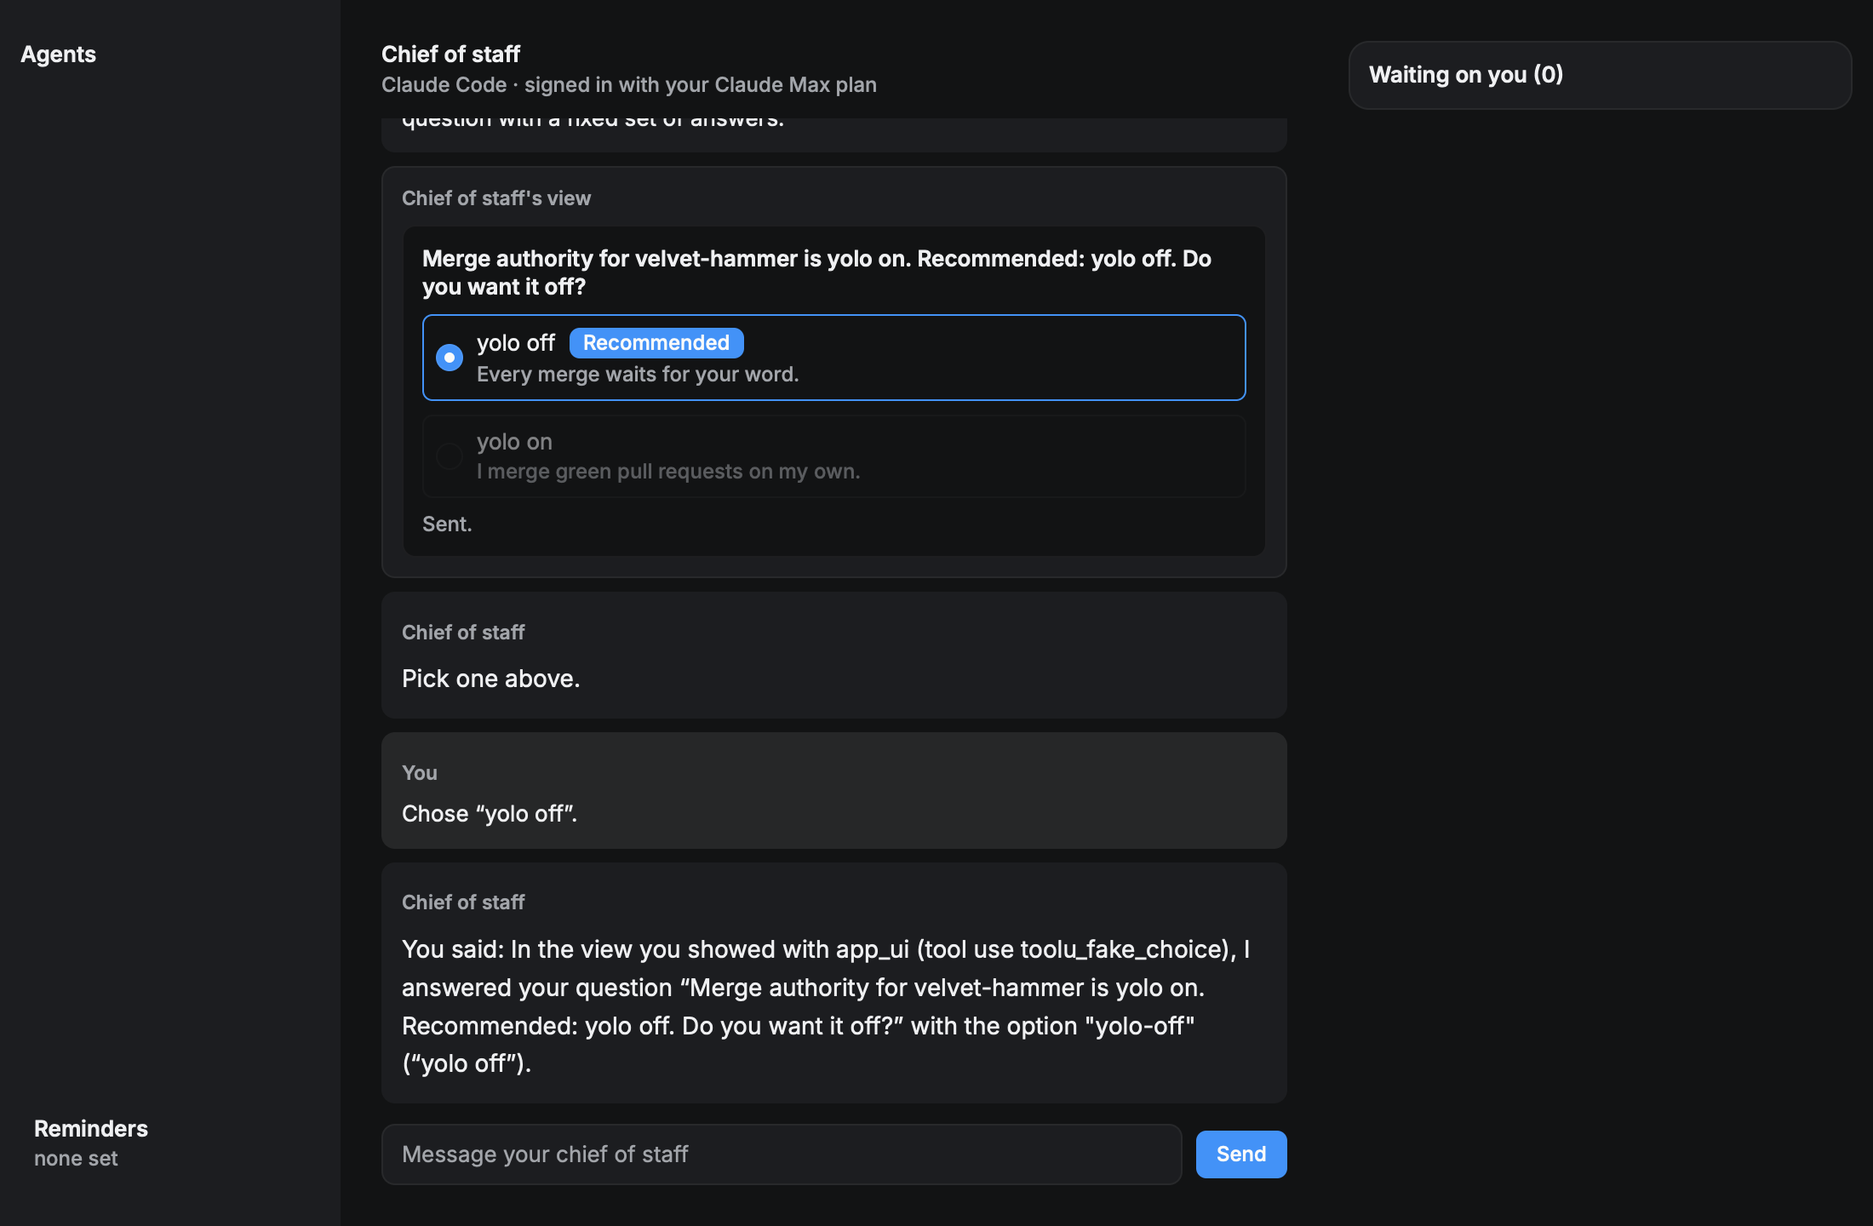
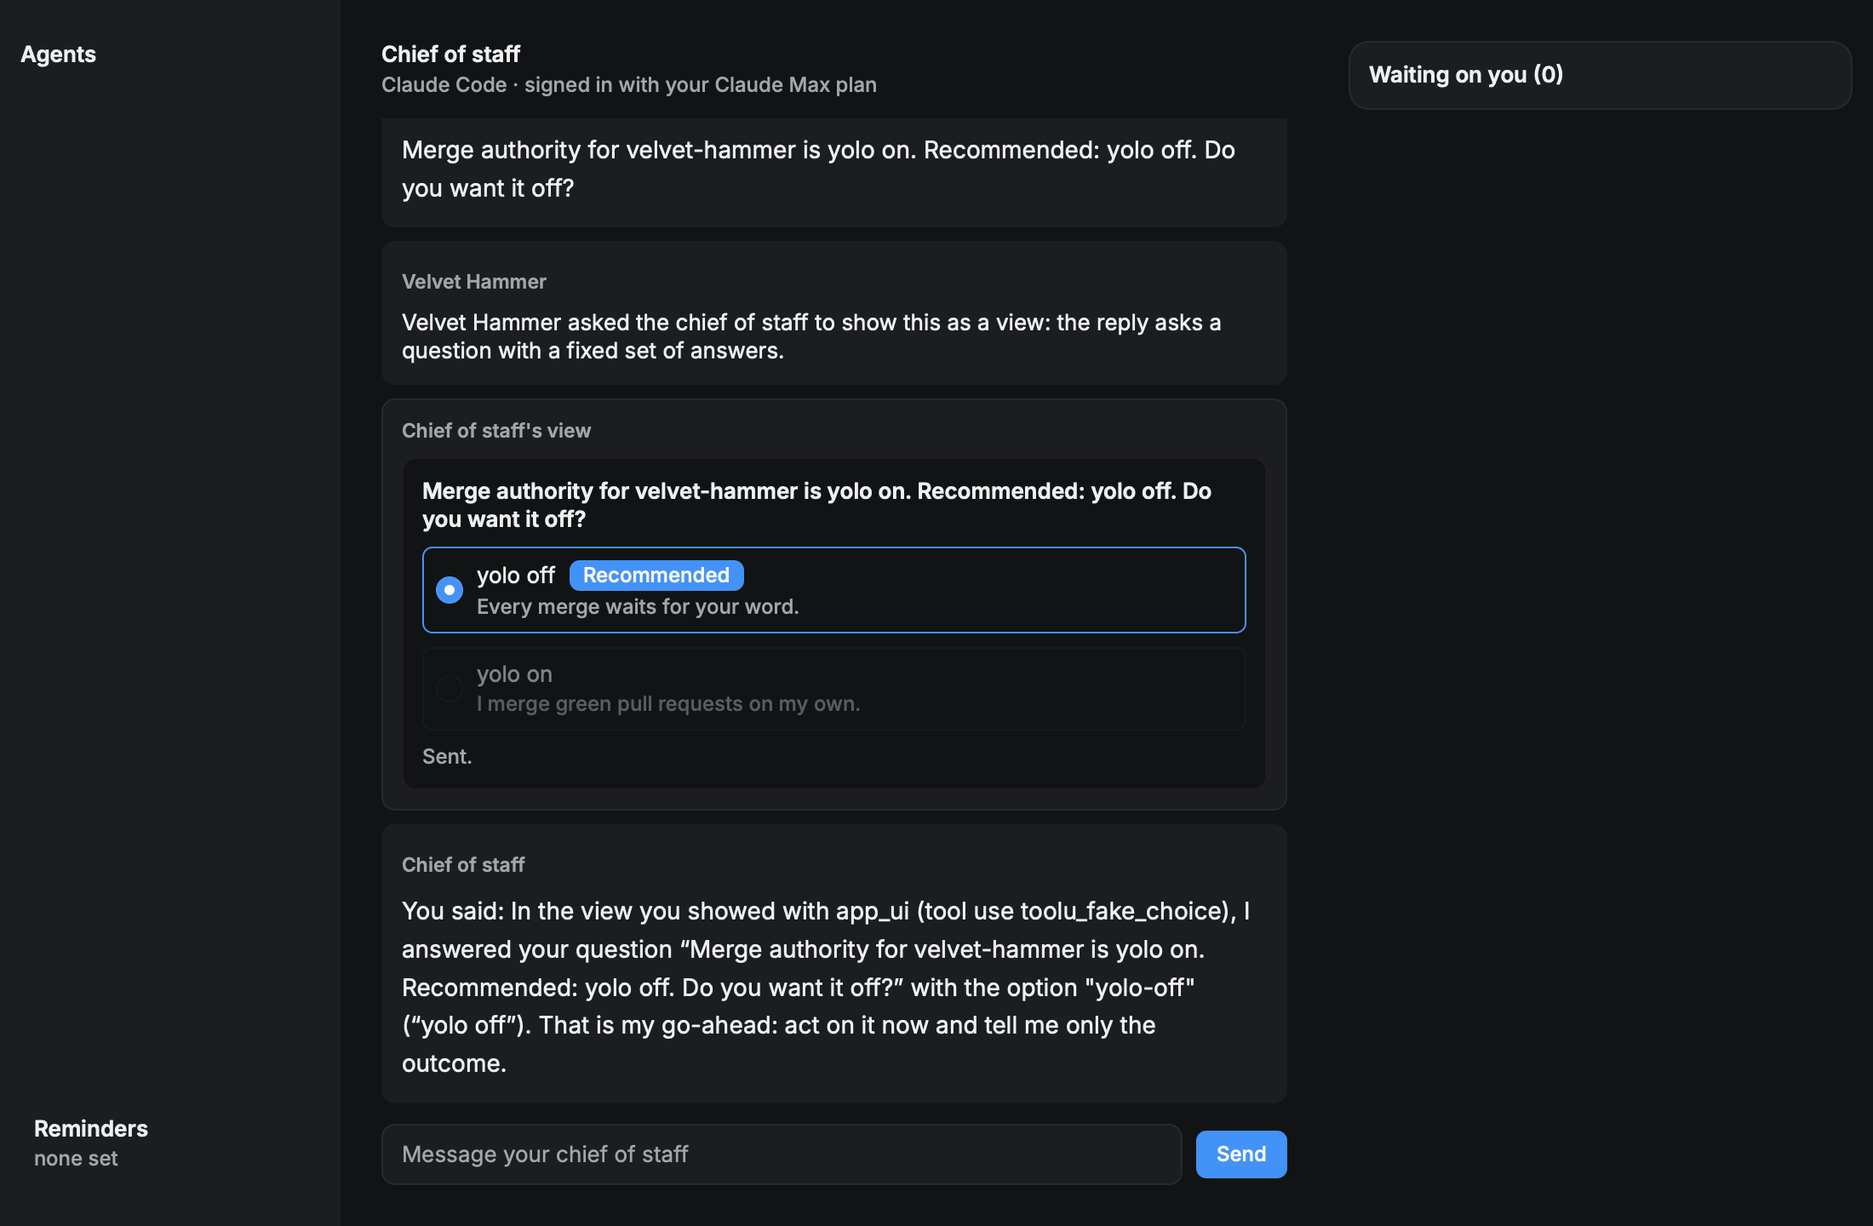
feat(ui): make a Choice the whole exchange, from question to action (#33)
* feat(choice): make a Choice the whole exchange, from question to action

Answering a Choice no longer adds a captain message to the chat: the Choice
shows the pick. The standing instruction, the stop hook's feedback and the
answer message tell the chief of staff to end its turn with the Choice and
to act on the pick at once, reporting only the outcome.

* no-mistakes(document): Fix stale Choice screenshot description in README

---------

diff --git a/src/main.rs b/src/main.rs
@@ -1011,11 +1011,20 @@ impl App {
                 m.while_working = true;
             }
         }
-        if matches!(action, Action::Say { .. } | Action::Ui(_)) {
+        // A reminder the chief of staff sets in this turn links back to the captain's message,
+        // or to the view they answered, which adds none.
+        if self.ws.chat.len() > before {
             self.keep(self.ws.chat.len() - 1);
-            // A reminder the chief of staff sets in this turn links back to this message.
             self.reminders
                 .said_in(&self.ws.chat[self.ws.chat.len() - 1].id);
+        } else if let Action::Ui(ui) = &action
+            && let Some(view) = self
+                .ws
+                .chat
+                .iter()
+                .find(|m| m.tool.as_ref().is_some_and(|t| t.id == ui.tool))
+        {
+            self.reminders.said_in(&view.id);
         }
         if matches!(action, Action::Answer { .. } | Action::Done { .. }) {
             self.invalidate_fleet();
@@ -1812,6 +1821,17 @@ fn settled(s: &App) -> bool {
     s.status != Status::Checking
 }
 
+/// The fake's turn asked with its `Choice` and ended there, with no text after it.
+fn asked(s: &App) -> bool {
+    !s.working
+        && s.replying.is_none()
+        && s.ws
+            .chat
+            .last()
+            .and_then(|m| m.tool.as_ref())
+            .is_some_and(|t| t.id == FAKE_CHOICE)
+}
+
 fn replied(s: &App) -> bool {
     s.replying.is_none()
         && s.ws
@@ -2440,9 +2460,17 @@ fn main() {
             }),
             ("choice-enforced", |s| {
                 *s = fake_in(Mode::Run);
-                say_until(s, ASK, "Pick one above.");
+                s.draft.text = ASK.into();
+                s.send();
+                s.settle(asked);
                 s.answer(FAKE_CHOICE, "merge", &["yolo-off".into()]);
-                s.settle(replied);
+                s.settle(|s| {
+                    replied(s)
+                        && s.ws
+                            .chat
+                            .last()
+                            .is_some_and(|m| m.text.starts_with("You said:"))
+                });
             }),
             // Visual replies: the settings page, a list the fake sent as text that was sent back
             // once and shown as a view, and a reply that ignored the feedback, sent back once.
@@ -6169,7 +6197,7 @@ mod tests {
     }
 
     #[test]
-    fn a_choice_sends_the_exact_value_once_and_shows_it_as_the_captains_choice() {
+    fn a_choice_sends_the_exact_value_once_and_shows_the_pick_in_itself() {
         let mut rt = view_runtime(spec("ui-choice.json"));
         assert!(rt.find("tool-1-ui-merge-recommended").is_some());
         assert!(
@@ -6179,10 +6207,10 @@ mod tests {
         );
         tap(&mut rt, "tool-1-ui-merge-option-0");
         let chat = rt.state.ws.chat.clone();
-        assert_eq!(chat[2].author, Author::Captain);
-        assert_eq!(chat[2].text, "Chose \u{201c}yolo off\u{201d}.");
+        // The Choice shows the pick, so the chief of staff's reply follows it directly.
+        assert_eq!(chat.len(), 3);
         assert_eq!(
-            chat[3].text,
+            chat[2].text,
             "Thanks. I got the values [\"yolo-off\"] and the words \u{201c}\u{201d}."
         );
         assert!(rt.find("tool-1-ui-merge-sent").is_some());
@@ -6204,14 +6232,11 @@ mod tests {
             s.view_edit(VIEW, &ui::other_field("checks"), "").text = "A changelog entry".into()
         });
         tap(&mut rt, "tool-1-ui-checks-send");
+        assert!(rt.find("tool-1-ui-checks-other-sent").is_some());
         let chat = &rt.state.ws.chat;
+        assert_eq!(chat.len(), 3);
         assert_eq!(
             chat[2].text,
-            "Chose \u{201c}Tests\u{201d} and \u{201c}Screenshots\u{201d}, and answered \
-             \u{201c}A changelog entry\u{201d}."
-        );
-        assert_eq!(
-            chat[3].text,
             "Thanks. I got the values [\"tests\", \"screens\"] and the words \u{201c}A changelog \
              entry\u{201d}."
         );
@@ -6395,7 +6420,9 @@ mod tests {
     #[test]
     fn a_question_asked_in_prose_is_asked_again_with_a_choice_and_its_value_comes_back() {
         let mut rt = runtime_with(fake_in(Mode::Run));
-        send_until(&mut rt, ASK, "Pick one above.");
+        rt.state.draft.text = ASK.into();
+        tap(&mut rt, "send");
+        wait(&mut rt, asked);
         assert_eq!(
             notices(&rt),
             [
@@ -6417,10 +6444,14 @@ mod tests {
                     .last()
                     .is_some_and(|m| m.text.starts_with("You said:"))
         });
+        // The Choice shows the pick; no message of the captain's comes between it and the reply.
         let chat = &rt.state.ws.chat;
-        let chose = &chat[chat.len() - 2];
-        assert_eq!(chose.author, Author::Captain);
-        assert_eq!(chose.text, "Chose \u{201c}yolo off\u{201d}.");
+        assert!(
+            chat[chat.len() - 2]
+                .tool
+                .as_ref()
+                .is_some_and(|t| t.id == FAKE_CHOICE)
+        );
         // The fake echoes what it received: the option's exact value, never a bare "No".
         let echoed = &chat[chat.len() - 1].text;
         assert!(

diff --git a/src/ui.rs b/src/ui.rs
@@ -233,7 +233,7 @@ pub static CATALOG: &[Component] = &[
                 recommend; multiple lets the captain pick several and press Send; other (default \
                 true) adds a field for an answer of their own. The captain's pick comes back to \
                 you as the option's exact value, so ask such a question with a Choice and not in \
-                text",
+                text, and end the turn with it: the pick is the go-ahead to act on",
     },
 ];
 
@@ -1449,7 +1449,7 @@ pub struct Answer {
 }
 
 impl Answer {
-    /// What the captain did, as the chat shows it: "Chose “yolo off”".
+    /// What the captain did, in a few words: "Chose “yolo off”".
     pub fn did(&self) -> String {
         let labels = quoted(
             self.picked
@@ -1541,7 +1541,8 @@ impl UiAction {
             ),
             Sent::Answer { question, answer } => format!(
                 "In the view you showed with {TOOL} (tool use {}), I answered your question \
-                 \u{201c}{question}\u{201d} with {}.",
+                 \u{201c}{question}\u{201d} with {}. That is my go-ahead: act on it now and \
+                 tell me only the outcome.",
                 self.tool,
                 answer.words()
             ),
@@ -1853,7 +1854,8 @@ mod tests {
         assert_eq!(
             one.message(),
             "In the view you showed with app_ui (tool use toolu_1), I answered your question \
-             \u{201c}Do you want it off?\u{201d} with the option \"yolo-off\" (\u{201c}yolo off\u{201d})."
+             \u{201c}Do you want it off?\u{201d} with the option \"yolo-off\" (\u{201c}yolo off\u{201d}). \
+             That is my go-ahead: act on it now and tell me only the outcome."
         );
         let several = action(Answer {
             picked: vec![opt("a", "A"), opt("b\"c", "B"), opt("d", "D")],
@@ -1865,11 +1867,15 @@ mod tests {
         );
         assert!(several.message().ends_with(
             "with the options \"a\" (\u{201c}A\u{201d}), \"b\\\"c\" (\u{201c}B\u{201d}) and \"d\" \
-             (\u{201c}D\u{201d}), and my own words, \u{201c}E\u{201d}."
+             (\u{201c}D\u{201d}), and my own words, \u{201c}E\u{201d}. That is my go-ahead: act \
+             on it now and tell me only the outcome."
         ));
         let none = action(Answer::default());
         assert_eq!(none.did, "Chose none of the options");
-        assert!(none.message().ends_with("with none of the options."));
+        assert!(
+            none.message()
+                .contains("with none of the options. That is my go-ahead")
+        );
     }
 
     #[test]

diff --git a/src/visual.rs b/src/visual.rs
@@ -108,8 +108,11 @@ pub const INSTRUCTION: &str = "Velvet Hammer shows this chat to the captain and 
     or merge ask, a table, or progress: such a reply is shown with app_ui (a json-render spec), \
     with only a short sentence of text around it. A question with a fixed set of answers (yes or \
     no, pick one of several, pick several) is asked with a Choice element in app_ui, with the \
-    recommended option marked, and is not also asked or answered in text; the captain's pick \
-    comes back as the option's exact value. A plain conversational answer stays plain text.";
+    recommended option marked, and is not also asked or answered in text. The Choice is the \
+    whole exchange: the turn ends with it, with no text after it, and the captain's pick comes \
+    back as the option's exact value. The pick is the go-ahead, so the reply to it does the work \
+    at once and reports only the outcome, without confirming the pick first. A plain \
+    conversational answer stays plain text.";
 
 /// A reply's shape that reads better as a view. [`shape`] finds it.
 #[derive(Clone, Debug, PartialEq, Eq)]
@@ -336,8 +339,9 @@ pub fn feedback(shape: &Shape) -> String {
             "Velvet Hammer: this reply {}, which the captain answers with one click. Ask it now \
              with the mcp__velvet-hammer__app_ui tool as a Choice element (the question, each \
              option as a value and a label with a short hint, and the recommended option's value), \
-             with at most one short sentence of text, and do not ask the question or list the \
-             options again in text. This is asked once; if the question is open-ended, end the \
+             then end the turn with no text after it: do not ask the question, list the options \
+             or say that the choice is waiting. When the pick comes back, act on it at once and \
+             report only the outcome. This is asked once; if the question is open-ended, end the \
              turn.",
             shape.describe()
         );

diff --git a/src/model.rs b/src/model.rs
@@ -4,7 +4,7 @@
 
 use crate::attach::Attachment;
 use crate::tools::ToolUse;
-use crate::ui::UiAction;
+use crate::ui::{Sent, UiAction};
 
 pub type Id = u32;
 
@@ -226,16 +226,20 @@ impl Workspace {
     }
 
     /// Records the captain's side of `action`: what they said goes into the chat, and an
-    /// answered or finished item leaves its panel. The agent layer replies separately.
+    /// answered or finished item leaves its panel. The answer to a `Choice` adds nothing: the
+    /// `Choice` itself shows what was picked. The agent layer replies separately.
     pub fn apply(&mut self, action: &Action) {
         match action {
             Action::Say { text, attachments } => self.chat.push(Message {
                 attachments: attachments.clone(),
                 ..Message::new(Author::Captain, text.clone())
             }),
-            Action::Ui(ui) => self
-                .chat
-                .push(Message::new(Author::Captain, format!("{}.", ui.did))),
+            Action::Ui(ui) => {
+                if !matches!(ui.sent, Sent::Answer { .. }) {
+                    self.chat
+                        .push(Message::new(Author::Captain, format!("{}.", ui.did)))
+                }
+            }
             Action::Answer { item, .. } | Action::Done { item } => {
                 self.items.retain(|i| i.id != *item)
             }

diff --git a/docs/visual-replies.md b/docs/visual-replies.md
@@ -5,8 +5,11 @@ The chief of staff can show a reply as a view in the chat with the app's `app_ui
 that read better as a view, such as a status digest, a list of items that need a decision, a
 pull request review or merge ask, a table or progress. A question with a fixed set of answers (yes
 or no, pick one, pick several) is asked with a `Choice` selector, so the captain answers with one
-click and the chief of staff gets the option's exact value. A plain conversational answer stays
-plain text.
+click and the chief of staff gets the option's exact value. The `Choice` is the whole exchange:
+the chief of staff ends its turn with it, the captain's pick shows in the `Choice` itself rather
+than as a message of their own, and the pick is the go-ahead, so the chief of staff acts on it at
+once and reports only the outcome (see [Choice then act](#choice-then-act)). A plain
+conversational answer stays plain text.
 
 Two of Claude Code's hooks carry it, served by the app like its PreToolUse hook (see
 [Extending](extending.md)):
@@ -73,8 +76,10 @@ hang. Claude Code's own cap of eight continuations is a second guard.
 > table, or progress: such a reply is shown with app_ui (a json-render spec), with only a short
 > sentence of text around it. A question with a fixed set of answers (yes or no, pick one of
 > several, pick several) is asked with a Choice element in app_ui, with the recommended option
-> marked, and is not also asked or answered in text; the captain's pick comes back as the
-> option's exact value. A plain conversational answer stays plain text.
+> marked, and is not also asked or answered in text. The Choice is the whole exchange: the turn
+> ends with it, with no text after it, and the captain's pick comes back as the option's exact
+> value. The pick is the go-ahead, so the reply to it does the work at once and reports only the
+> outcome, without confirming the pick first. A plain conversational answer stays plain text.
 
 ### The feedback
 
@@ -90,8 +95,9 @@ For a question (the choices and question shapes):
 > Velvet Hammer: this reply asks a question with a fixed set of answers, which the captain
 > answers with one click. Ask it now with the mcp__velvet-hammer__app_ui tool as a Choice element
 > (the question, each option as a value and a label with a short hint, and the recommended
-> option's value), with at most one short sentence of text, and do not ask the question or list
-> the options again in text. This is asked once; if the question is open-ended, end the turn.
+> option's value), then end the turn with no text after it: do not ask the question, list the
+> options or say that the choice is waiting. When the pick comes back, act on it at once and
+> report only the outcome. This is asked once; if the question is open-ended, end the turn.
 
 ### Qualifying shapes
 
@@ -115,6 +121,25 @@ does not count.
 These are deliberately plain. A short answer that happens to have two bullets and a question
 counts as choices, and a closing "Should I start now?" counts as a question; a long prose answer
 with no closed question never counts.
+
+## Choice then act
+
+A question asked with a `Choice` is one element in the chat, from the question to the work it
+starts. The captain clicks an option and the action starts; nothing comes between the two. Two
+parts make it so, and they are different in kind:
+
+- **App behaviour.** Answering a `Choice` adds no message to the chat. The `Choice` marks the
+  picked option, shows any words typed in its Other field as "Your answer: …", says "Sent." and
+  takes no more presses (`Workspace::apply` in `src/model.rs`). The chief of staff's reply
+  follows the `Choice` directly. This holds whatever the model does.
+- **Instruction text.** The standing instruction and the stop hook's feedback for a question tell
+  the chief of staff to end its turn with the `Choice`, with no text after it (no "the choice is
+  up to you"), and to act on the pick at once and report only the outcome. The message the
+  answer sends ends with "That is my go-ahead: act on it now and tell me only the outcome." These
+  steer the model; nothing checks that it complies.
+
+What was answered lives in the running app, so after a restart a kept `Choice` shows unanswered
+again, and, since the answer adds no message, the kept conversation does not record the pick.
 
 ## Settings
 
@@ -144,8 +169,9 @@ change keeps the old file as `visual-replies.json.bad`.
   `ask:` messages, the stop hook the way Claude Code does.
 - The merge-authority case that prompted the `Choice`: the fake asks "Merge authority for
   velvet-hammer is yolo on. Recommended: yolo off. Do you want it off?" in prose, the stop hook
-  sends it back, the fake asks it with a `Choice`, and choosing yolo off sends the fake the value
-  `"yolo-off"` (`a_question_asked_in_prose_is_asked_again_with_a_choice_and_its_value_comes_back`
+  sends it back, the fake asks it with a `Choice` and ends its turn there, and choosing yolo off
+  sends the fake the value `"yolo-off"`, with no message of the captain's between the `Choice` and
+  the fake's reply (`a_question_asked_in_prose_is_asked_again_with_a_choice_and_its_value_comes_back`
   in `src/main.rs`, and the `choice-enforced` scene).
 - With the real `claude` (2.1.311, Haiku), the ignored test
   `real_claude_shows_a_list_as_a_view` was run on 2026-11-13. Asked "Name three fruits I could buy

diff --git a/docs/json-render.md b/docs/json-render.md
@@ -147,20 +147,21 @@ option with its hint, a **Recommended** mark on the option whose value is `recom
 **Other** field for an answer of the captain's own (Return sends it) unless `other` is false. In a
 single choice a press on an option sends it at once; with `multiple`, presses pick and unpick and
 **Send** sends the picks (it is disabled until something is picked or typed). It needs no `on`
-binding: the answer goes back by itself, once. The chat shows it as the captain's own message
-("Chose “yolo off”.", "Answered “…”."), the `Choice` shows the answer and takes no more presses,
-and the chief of staff's session receives each option by its exact `value`, so an answer can never
-be an ambiguous "No":
+binding: the answer goes back by itself, once. The `Choice` shows the answer and takes no more
+presses, and adds no message of the captain's to the chat, so the chief of staff's reply follows it
+directly (see [Choice then act](visual-replies.md#choice-then-act)). The chief of staff's session
+receives each option by its exact `value`, so an answer can never be an ambiguous "No", and the
+pick as the go-ahead:
 
 > In the view you showed with app_ui (tool use toolu_…), I answered your question “Merge
 > authority for velvet-hammer is yolo on. Do you want it off?” with the option "yolo-off"
-> (“yolo off”).
+> (“yolo off”). That is my go-ahead: act on it now and tell me only the outcome.
 
 Several picks are listed in the order the view shows them, and the Other text follows as "my own
 words, “…”". The tool's answer warns about an option without a string `value` and `label` (it is
 left out), a `Choice` with fewer than two options, and a `recommended` that is no option's value.
-What was answered lives in the running app; a restart shows the `Choice` unanswered again, while
-the captain's message about it stays in the chat.
+What was answered lives in the running app; a restart shows the `Choice` unanswered again, and
+the kept conversation has no record of the pick.
 
 ## Safety
 

diff --git a/README.md b/README.md
@@ -603,7 +603,7 @@ It writes these files to `OUT_DIR`:
 | `view-unknown.png`, `view-unknown.json` | A view naming a component the catalog lacks, shown as a placeholder |
 | `view-too-large.png`, `view-too-large.json` | A view over the element limit, refused with why |
 | `choice-ask.png`, `choice-ask.json` | A question with a fixed set of answers asked with a Choice: yolo off recommended, yolo on, and an Other field |
-| `choice-answered.png`, `choice-answered.json` | After choosing **yolo off**: the answered Choice, your choice in the chat, and the reply to its exact value |
+| `choice-answered.png`, `choice-answered.json` | After choosing **yolo off**: the answered Choice, with no message of yours in the chat, and the reply to its exact value |
 | `choice-multiple.png`, `choice-multiple.json` | A Choice that takes several picks, with two picked and an answer of your own typed |
 | `choice-enforced.png`, `choice-enforced.json` | A question the fake asked in prose, sent back by the stop hook, asked again with a Choice and answered |
 | `visuals-settings.png`, `visuals-settings.json` | The Visual replies page: Enforce recommended, the shapes, the instruction and an example |
